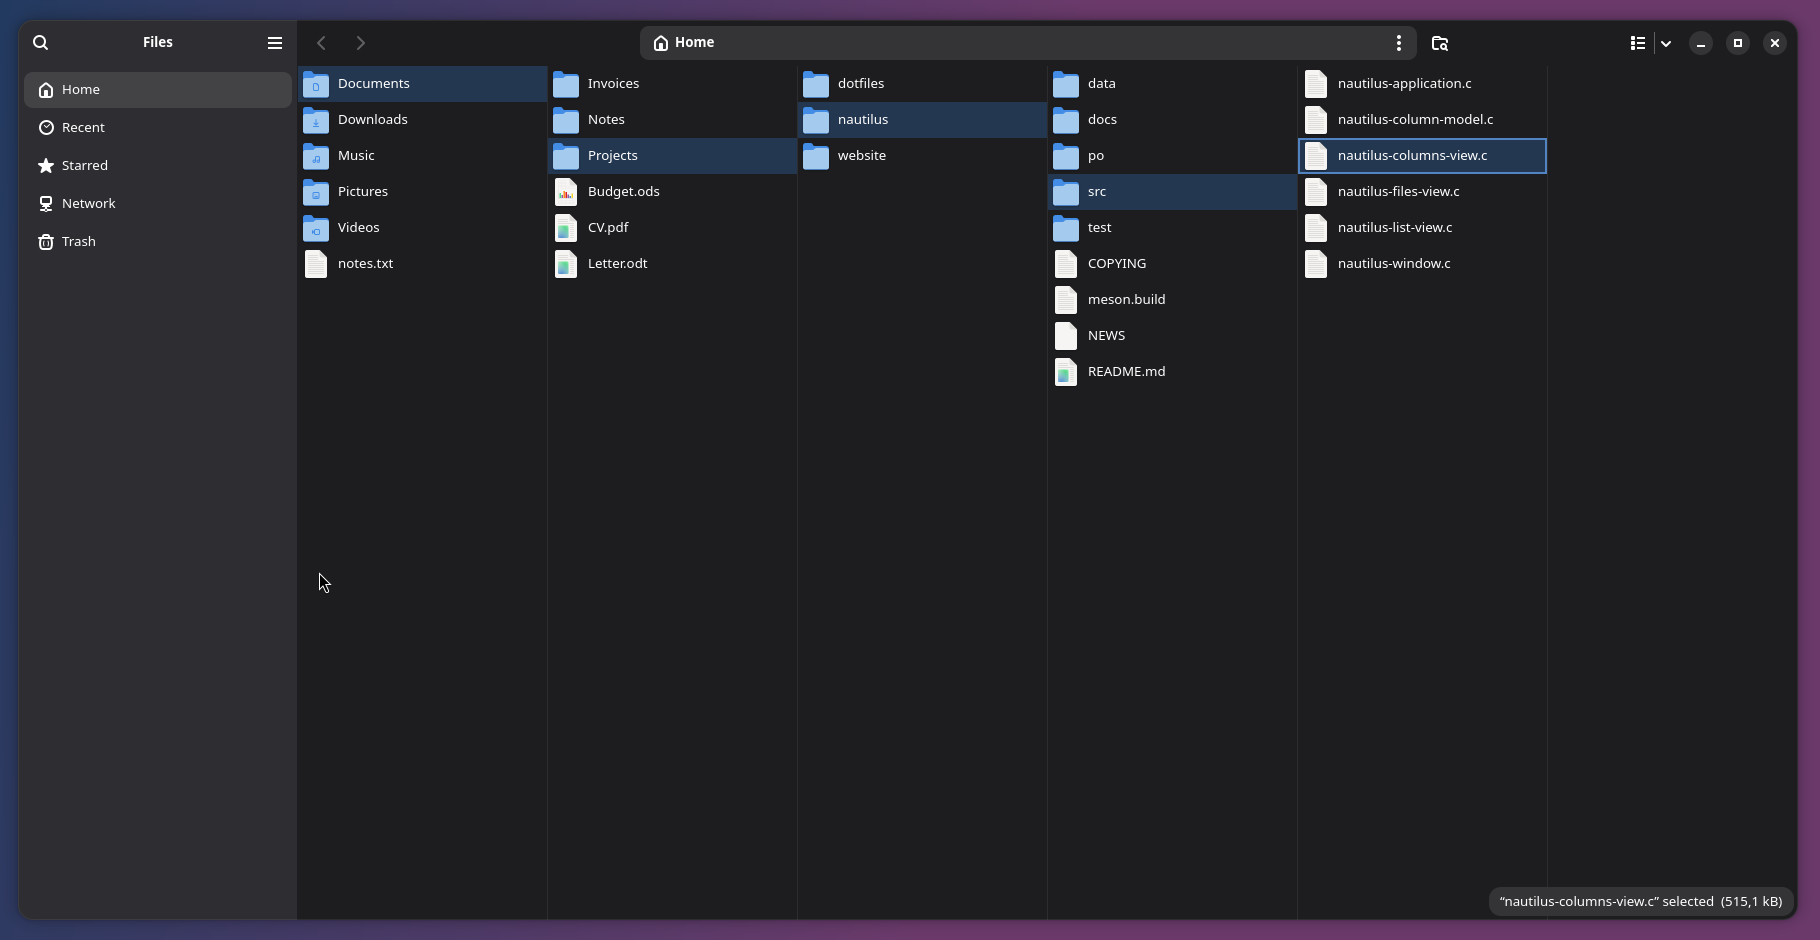
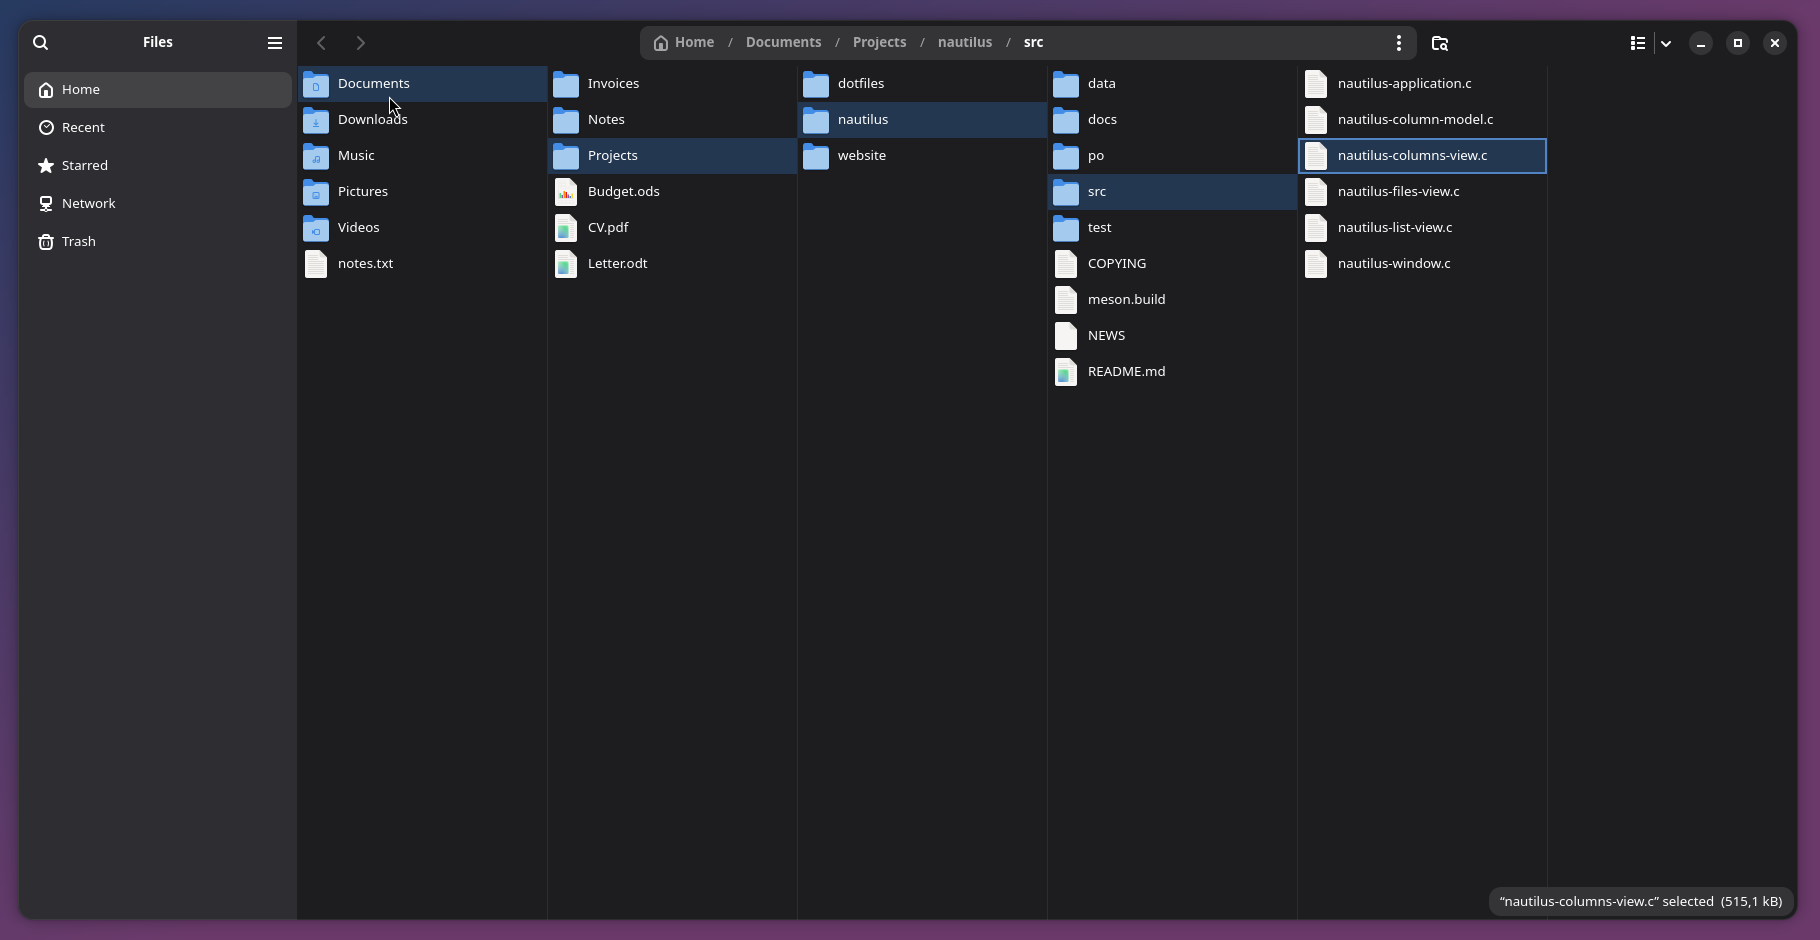
Path bar follows the open column; refresh screenshots

Changed region(s): [[0.0, 0.4319, 0.3077, 1.0], [0.5231, 0.0, 0.6769, 0.0617], [0.3692, 0.0309, 0.4923, 0.0617]]

diff --git a/README.md b/README.md
@@ -3,7 +3,8 @@
 A Miller-columns ("column view") mode for GNOME Files (Nautilus), as a patch.
 
 Selecting a folder opens its contents in a new column to the right. The folders
-on the open path stay highlighted.
+on the open path stay highlighted, and the path bar follows the deepest open
+folder.
 
 ![Columns view: Documents › Projects › nautilus › src](assets/screenshot.png)
 
